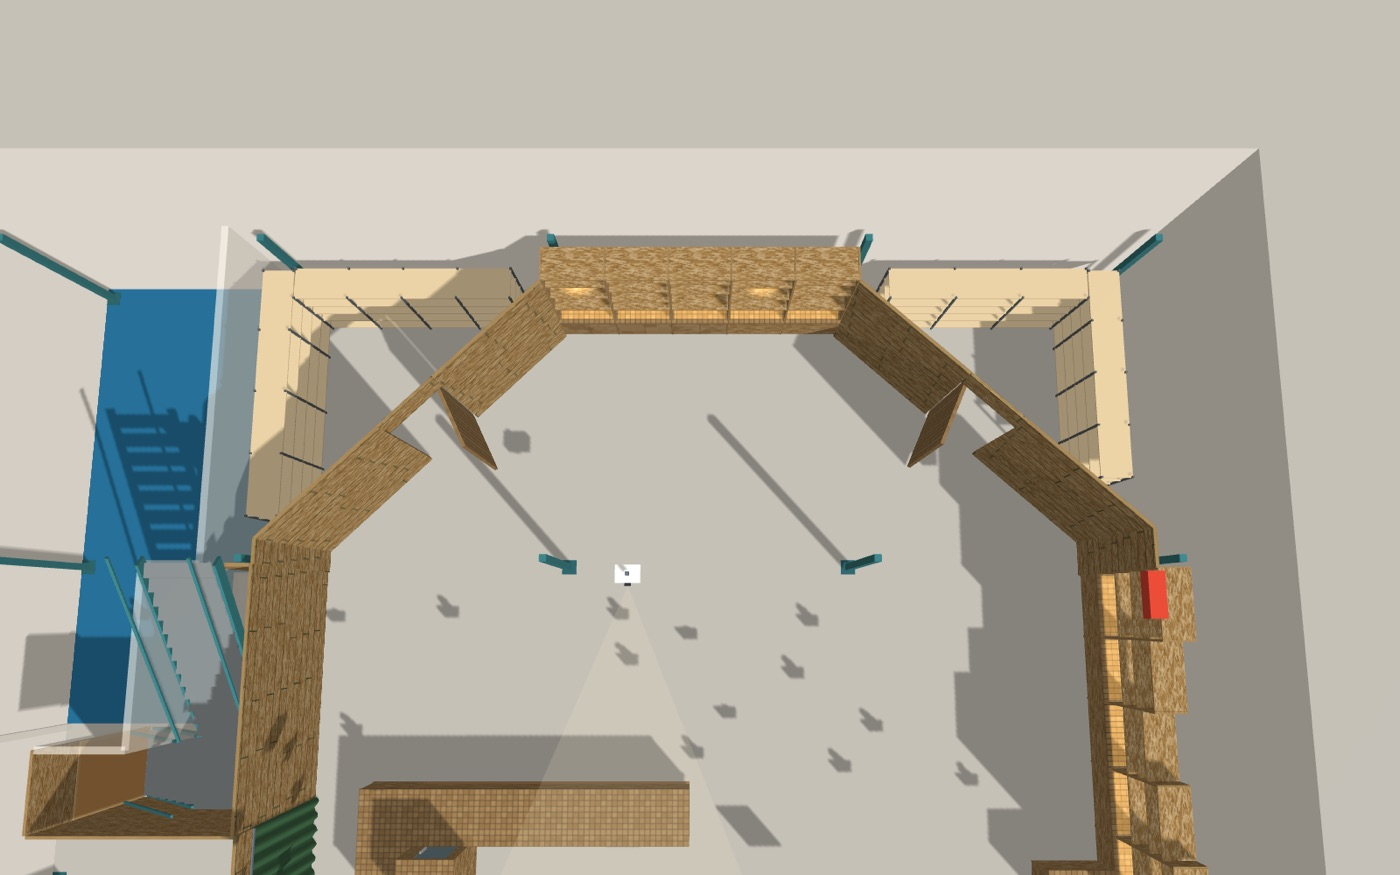
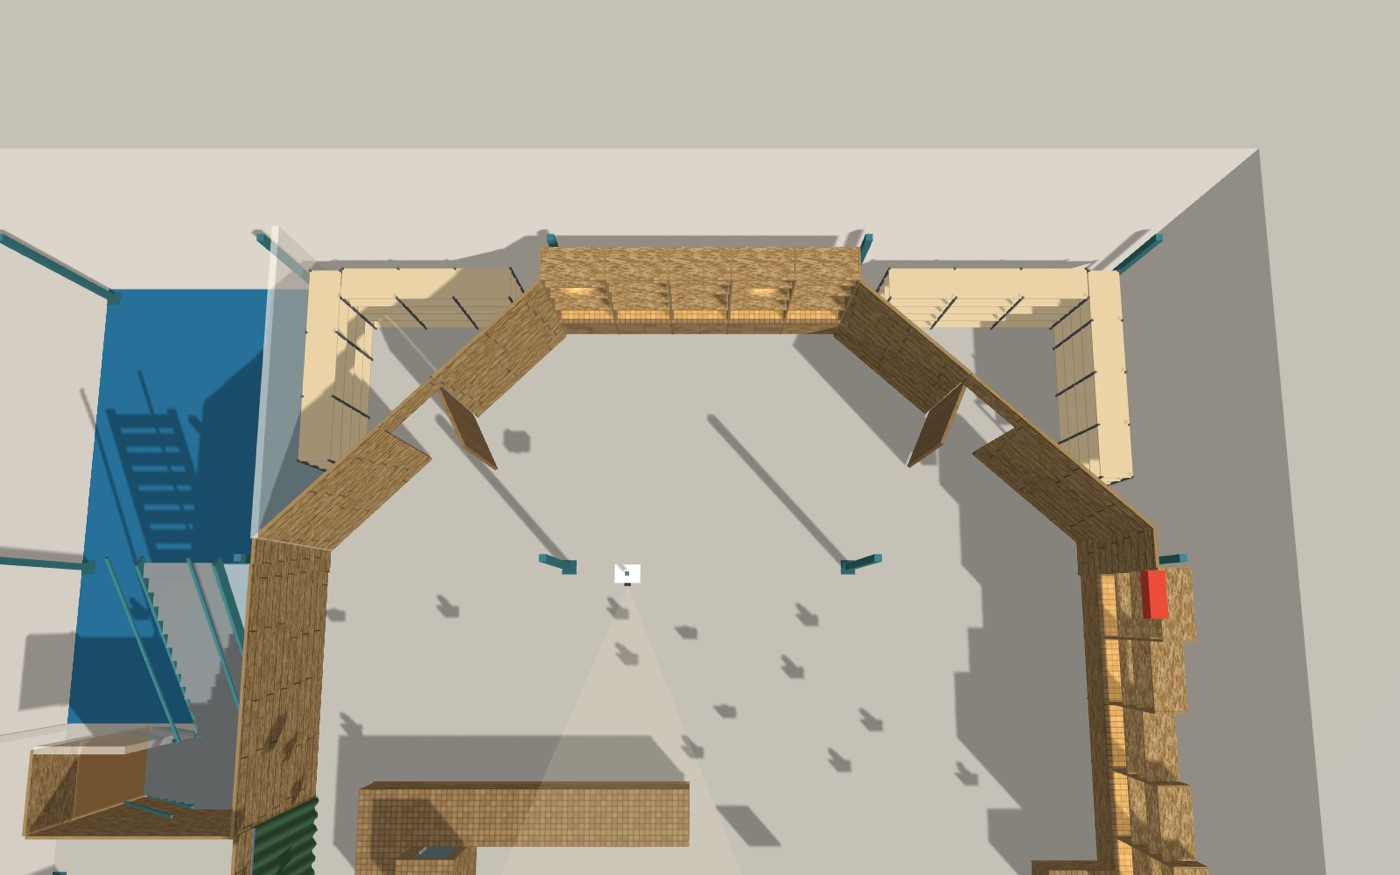
Update the public model 15 Oct 2026

Changed region(s): [[0.1229, 0.2777, 0.3379, 0.7097], [0.0614, 0.648, 0.1536, 0.864]]

diff --git a/index.html b/index.html
@@ -248,6 +248,8 @@ const BACK = 5.8, EDGE = 4.9, WALK = 1, SD = BACK - WALK;
 
 const WOOD_W = 4;
 
+const WOOD_X = EDGE - .03;
+
 const DOORS = [ [ 1.2, 2.9 ], [ 12, 13.7 ] ], DOOR_H = 2.4;
 
 const COLX = [ .12, 4.62, 9.62, 15.12, 20.12 ];
@@ -850,13 +852,20 @@ let POTN = () => Object.values(PLANTS).reduce((t, p) => t + p.pots.length, 0);
         const along = Math.abs(d - b) < 1e-6, s0 = along ? Math.min(a, c) : Math.min(b, d), s1 = along ? Math.max(a, c) : Math.max(b, d);
         minus([ s0, s1 ], gap ? [ gap ] : null).forEach(([p, q]) => along ? B(g, p, 0, b - .06, q, UNDER, b + .06, M.woodWall) : B(g, a - .06, 0, p, a + .06, UNDER, q, M.woodWall));
     };
-    ww(WOOD_W, 0, WOOD_W, BACK);
-    ww(3.05, BACK, WOOD_W, BACK);
-    ww(3.05, BACK, 3.05, 8.75);
+    ww(WOOD_X, 0, WOOD_X, T1[1][1]);
     ww(0, 8.75, 3.05, 8.75, [ .1, 1.6 ]);
-    B(g, 0, 0, 0, WOOD_W - .06, .012, BACK, mat("#1f5f82"));
-    B(g, 0, 0, BACK, 3, .012, 8.69, mat("#1f5f82"));
-    label([ 2, 1.4, 3.6 ], "Wood & Build", "≈ 32 m², its wall in line with the landing", {
+    B(g, 3.05, 0, 8.69, EDGE - .08, STAIR.landing.h - .06, 8.81, M.woodWall);
+    {
+        const z0 = BACK, y0 = UNDER, z1 = STAIR.landing.z0, y1 = STAIR.landing.h - .35, L = Math.hypot(z1 - z0, y0 - y1);
+        const sf = new THREE.Mesh(UNIT, M.woodWall);
+        sf.scale.set(EDGE - .08 - HOLE[0], .03, L);
+        sf.position.set((HOLE[0] + EDGE - .08) / 2, (y0 + y1) / 2, (z0 + z1) / 2);
+        sf.rotation.x = Math.atan2(y0 - y1, z1 - z0);
+        g.add(sf);
+    }
+    B(g, 0, 0, 0, WOOD_X - .06, .012, BACK, mat("#1f5f82"));
+    B(g, 0, 0, BACK, EDGE - .08, .012, 8.69, mat("#1f5f82"));
+    label([ 2.3, 1.4, 3.6 ], "Wood & Build", "≈ 42 m², to the line of the stair and its foot", {
         lv: "gi"
     });
     curtain(g, EDGE, 10.05, EDGE, ZW, 0, LOBBY_H - .05, M.green[1]);
@@ -872,7 +881,6 @@ let POTN = () => Object.values(PLANTS).reduce((t, p) => t + p.pots.length, 0);
     {
         const b = G.stairbox, T = .05, X = EDGE - .03, ZS = STAIR.landing.z1, XD = 1.6;
         B(b, X - T, 0, BACK, X, UNDER, ZS, stripMat(ZS - BACK, UNDER));
-        B(b, WOOD_W, 0, BACK - .02, X - T, UNDER, BACK + .04, osbFor(.8, UNDER));
         B(b, XD, 0, ZS, X, UNDER, ZS + T, osbFor(X - XD, UNDER));
         B(b, XD - T, 2.3, STAIR.landing.z0, XD, UNDER, ZS, osbFor(1.3, 1.3));
         B(b, XD - .06, 0, STAIR.landing.z0, XD + .01, 2.34, STAIR.landing.z0 + .05, M.plyEdge);
@@ -896,7 +904,7 @@ const UNDERFAB = [], PANELS = [];
 
 {
     const g = G.under;
-    for (let x = WOOD_W, i = 0; x < HX - 1e-6; x += 1, i++) {
+    for (let x = WOOD_X, i = 0; x < HX - 1e-6; x += 1, i++) {
         const e = Math.min(HX, x + 1);
         const me = flat(g, e - x, BACK, (x + e) / 2, UNDER - .012, BACK / 2, M.green[i % 2], "down");
         UNDERFAB.push(me);
@@ -1410,7 +1418,7 @@ const CDOORS = [];
     }), bd = mat("#c9b48e", {
         roughness: .9
     });
-    [ [ 4.07, 4.67, .3, 4.9 ], [ 4.67, 8.7, .26, .86 ], [ 19.4, 20, .3, 4.2 ], [ 15.7, 19.4, .26, .86 ] ].forEach(([x0, x1, z0, z1]) => {
+    [ [ WOOD_X + .07, WOOD_X + .67, .3, 3.9 ], [ WOOD_X + .67, 8.7, .26, .86 ], [ 19.4, 20, .3, 4.2 ], [ 15.7, 19.4, .26, .86 ] ].forEach(([x0, x1, z0, z1]) => {
         const along = x1 - x0 > z1 - z0, L = along ? x1 - x0 : z1 - z0, n = Math.ceil(L / 1.25);
         [ .12, .62, 1.12, 1.62, 2.12 ].forEach(y => B(g, x0 + .01, y, z0 + .01, x1 - .01, y + .025, z1 - .01, bd));
         for (let i = 0; i <= n; i++) {
